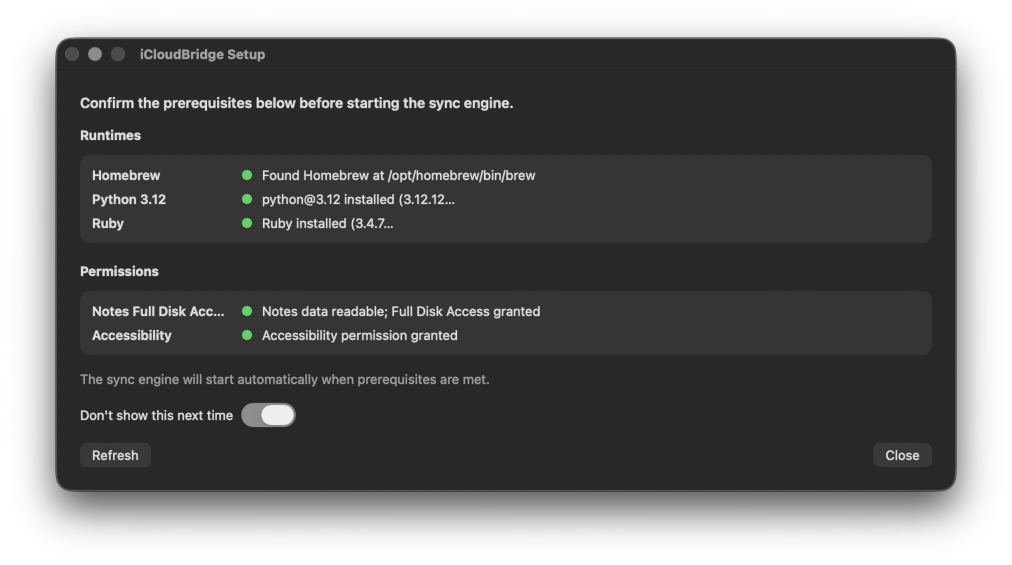
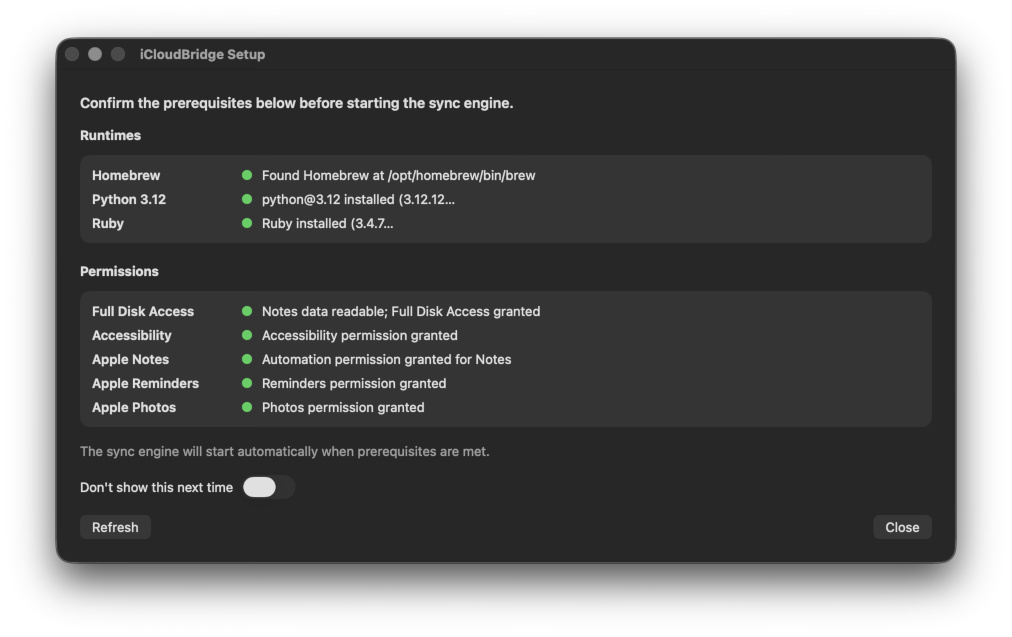
Added photo sync CLI options, updated documentation.

Changed region(s): [[0.0306, 0.1504, 0.9496, 0.9027], [0.0306, 0.0301, 0.9496, 0.1204], [0.2451, 0.2708, 0.5208, 0.4212]]

diff --git a/icloudbridge/cli/main.py b/icloudbridge/cli/main.py
@@ -191,6 +191,11 @@ def config(
 def photos(
     ctx: typer.Context,
     dry_run: bool = typer.Option(False, "--dry-run", help="Preview new imports without sending anything to Photos"),
+    initial_scan: bool = typer.Option(
+        False,
+        "--initial-scan",
+        help="Build the photo cache without importing into Photos (used after changing sources)",
+    ),
     source: list[str] = typer.Option(None, "--source", "-s", help="Limit sync to specific source keys"),
 ):
     """Synchronize configured photo watch folders into Apple Photos."""
@@ -201,7 +206,7 @@ def photos(
         raise typer.Exit(1)
 
     engine = PhotoSyncEngine(cfg.photos, cfg.general.data_dir)
-    stats = asyncio.run(engine.sync(sources=source or None, dry_run=dry_run))
+    stats = asyncio.run(engine.sync(sources=source or None, dry_run=dry_run, initial_scan=initial_scan))
 
     table = Table(title="Photo Sync Results")
     table.add_column("Metric", style="cyan")
@@ -211,6 +216,7 @@ def photos(
     table.add_row("New assets", str(stats.get("new_assets", 0)))
     table.add_row("Imported", str(stats.get("imported", 0)))
     table.add_row("Dry run", "Yes" if stats.get("dry_run") else "No")
+    table.add_row("Initial scan", "Yes" if stats.get("initial_scan") else "No")
 
     albums = stats.get("albums")
     if albums:

diff --git a/docs/notes.md b/docs/notes.md
@@ -10,7 +10,7 @@ The Notes page in the iCloudBridge WebUI allows you to manage the synchronisatio
 ### Sync Configuration
 iCloudBridge can sync your notes in two ways: Auto or Manual. 
 
-In **Auto** mode, folders in Apple Notes are automatically mapped to folders in your destination location. For example, if your have a folder called "Work" in Apple Notes, it will be synced to a folder called "Work" in your destination location. If the folder does not exist in the destination, it will be created. This is bidirectional - folders in the destination which don't exist in Apple Notes will also be created.
+In **Auto** mode, folders in Apple Notes are automatically mapped to folders in your destination location. For example, if you have a folder called "Work" in Apple Notes, it will be synced to a folder called "Work" in your destination location. If the folder does not exist in the destination, it will be created. This is bidirectional - folders in the destination which don't exist in Apple Notes will also be created.
 
 In **Manual** mode, you can specify exactly which folders in Apple Notes map to which folders in your destination location. This gives you more control over where your notes are stored. You can also leave folders unmapped, and these will not be synced. 
 
@@ -22,9 +22,9 @@ In **Auto** mode, you can see a list of which folders from Apple Notes will be m
 
 ![Notes Auto Mappings](images/docs_notes_2.png)
 
-In the above screenshot, you can see that folders in Apple Notes which have the same name in the destination location will be mapped together. Folders which don't exist in the destination will be created during synchronisation. So, for example, during the first sync a "Secure" folder will bve created in the destination location, whilst an "Ongoing Projects" will be created under "Work" in Apple Notes.
+In the above screenshot, you can see that folders in Apple Notes which have the same name in the destination location will be mapped together. Folders which don't exist in the destination will be created during synchronisation. So, for example, during the first sync a "Secure" folder will be created in the destination location, whilst an "Ongoing Projects" will be created under "Work" in Apple Notes.
 
-If your desintation location is empty, all folders will be created, as shown below:
+If your destination location is empty, all folders will be created, as shown below:
 
 ![Notes Auto Mappings Empty](images/docs_notes_3.png)
 

diff --git a/docs/reminders.md b/docs/reminders.md
@@ -10,7 +10,7 @@ The Reminders page in the iCloudBridge WebUI allows you to manage the synchronis
 ### Sync Configuration
 iCloudBridge can sync your reminders in two ways: Auto or Manual.
 
-In **Auto** mode, lists in Apple Reminders are automatically mapped to calendars in your destination location. For example, if your have a list called "Groceries" in Apple Reminders, it will be synced to a calendar called "Groceries" in your destination location. If the calendar does not exist in the destination, it will be created. This is bidirectional - calendars in the destination which don't exist as lists in Apple Reminders will also be created.
+In **Auto** mode, lists in Apple Reminders are automatically mapped to calendars in your destination location. For example, if you have a list called "Groceries" in Apple Reminders, it will be synced to a calendar called "Groceries" in your destination location. If the calendar does not exist in the destination, it will be created. This is bidirectional - calendars in the destination which don't exist as lists in Apple Reminders will also be created.
 
 In **Manual** mode, you can specify exactly which lists in Apple Reminders map to which calendars in your destination location. This gives you more control over where your reminders are stored. You can also leave lists unmapped, and these will not be synced.
 
@@ -19,7 +19,7 @@ In **Auto** mode, you can see a list of which lists from Apple Reminders will be
 
 ![Reminders Auto Mappings](images/docs_reminders_2.png)
 
-In the above screenshot, you can see that lists in Apple Reminders which have the same name in the destination location will be mapped together. Lists which don't exist in the destination will be created during synchronisation. So, for example, during the first sync a "Private Reminders" calendar will bve created in the destination location, whilst a "Confidential" list will be created in Apple Notes.
+In the above screenshot, you can see that lists in Apple Reminders which have the same name in the destination location will be mapped together. Lists which don't exist in the destination will be created during synchronisation. So, for example, during the first sync a "Private Reminders" calendar will be created in the destination location, whilst a "Confidential" list will be created in Apple Notes.
 
 > [!NOTE]
 > If the reminder count displayed does not match Apple Reminders, remember that completed reminders are also counted!

diff --git a/docs/installing.md b/docs/installing.md
@@ -18,7 +18,10 @@ When you start iCloudBridge for the first time, a setup window will appear. This
 
 If any of the requirements fail to install, a "Logs" button will appear. You can use these when asking for help in our [GitHub Issues](https://github.com/keithvassallomt/icloudbridge/issues) page. 
 
-You will also see buttons allowing you to grant iCloudBridge the necessary permissions. At a bare minimum, you must grant iCloudBridge Full Disk Access and Acccessibility permissions. During your initial syncs, iCloudBridge may ask for additional permissions depending on what you choose to sync. 
+You will also see buttons allowing you to grant iCloudBridge the necessary permissions. At a bare minimum, you must grant iCloudBridge Full Disk Access and Accessibility permissions. Additional permissions are required depending on which features you intend to use. 
+
+> [!TIP]
+> Even if you don't intend to use certain features yet, it is safe to give iCloudBridge all permissions. This is an open-source application, with no telemetry collected and with no information sent to any external servers.
 
 Once you have all requirements, the sync engine will start!
 

diff --git a/docs/passwords.md b/docs/passwords.md
@@ -22,13 +22,13 @@ Unlike Notes, Reminders and Photos, Passwords does not support automatic synchro
 ### Syncing Passwords (Bidirectional)
 To start a sync, you'll need to export your passwords from Apple Passwords. From Apple Passwords, click File > Export All Passwords to File...
 
-![Exporting Apple Passords](images/docs_passwords_1.png)
+![Exporting Apple Passwords](images/docs_passwords_1.png)
 
 This creates a CSV file in the folder you choose. 
 
 Next, from iCloudBridge, click "Upload Apple CSV" and choose the CSV file you just exported from Apple Passwords. 
 
-![Password Upoading CSV](images/docs_passwords_2.png)
+![Password Uploading CSV](images/docs_passwords_2.png)
 
 At this point, you should probably run a simulation (especially if this is your first sync) as a sanity check. Click "Simulate", and observe the results:
 

diff --git a/docs/USAGE.md b/docs/USAGE.md
@@ -60,10 +60,12 @@ Import media from configured watch folders into Apple Photos.
 | Option | Description |
 |--------|-------------|
 | `--dry-run` | Scan and print statistics without importing anything. |
+| `--initial-scan` | Build the cache without importing to Photos (use after adding/changing sources). |
 | `--source KEY`, `-s KEY` | Limit the run to specific `photos.sources` keys. Repeat to select multiple sources. |
 
 ```
 icloudbridge photos --dry-run
+icloudbridge photos --initial-scan
 icloudbridge photos --source nextcloud --source screenshots
 ```
 
